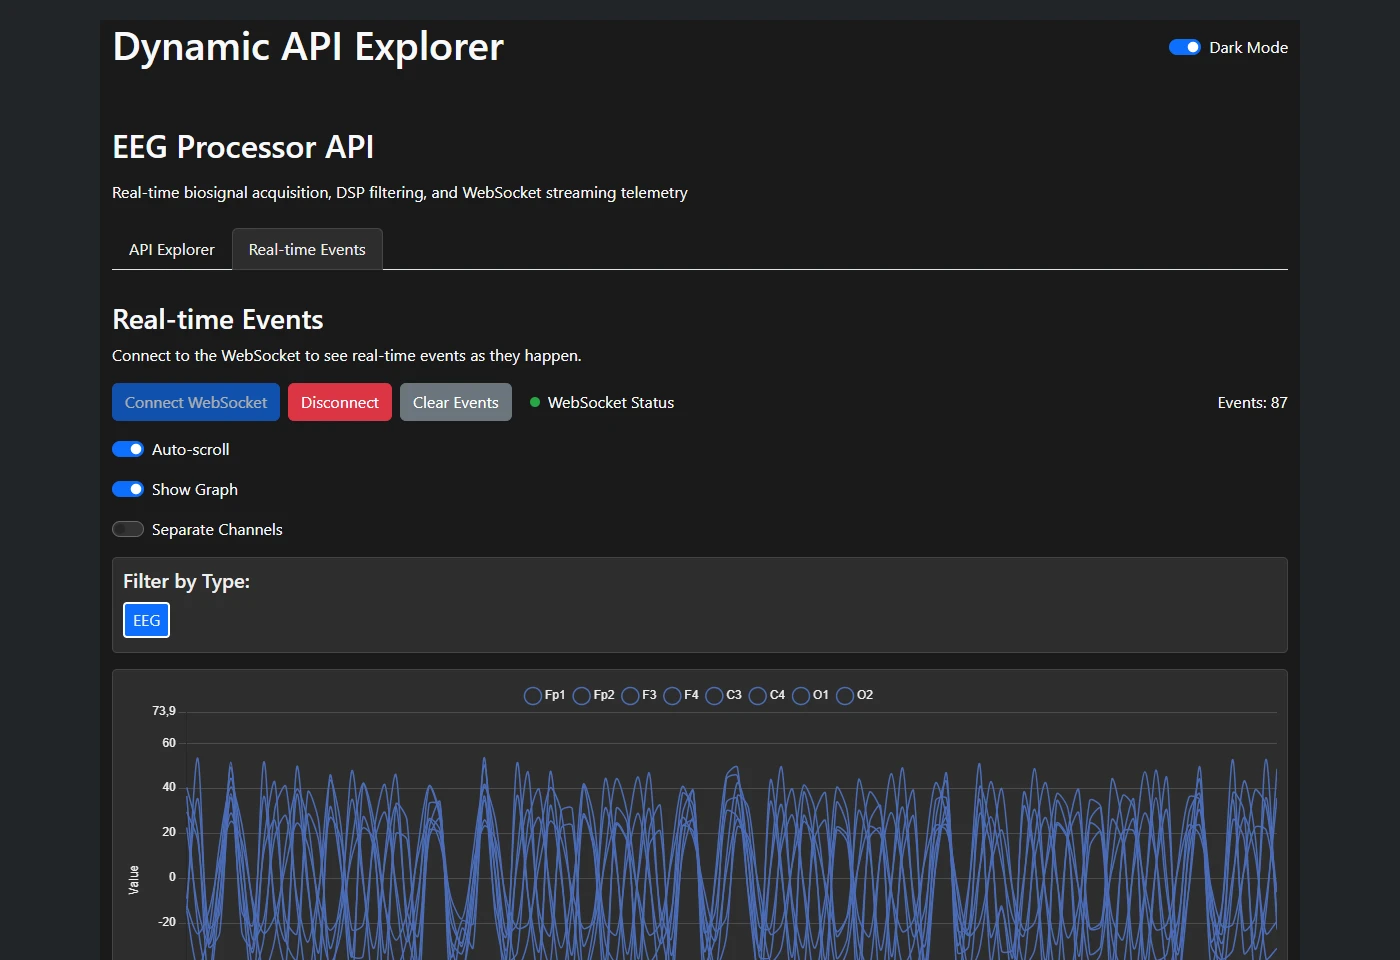
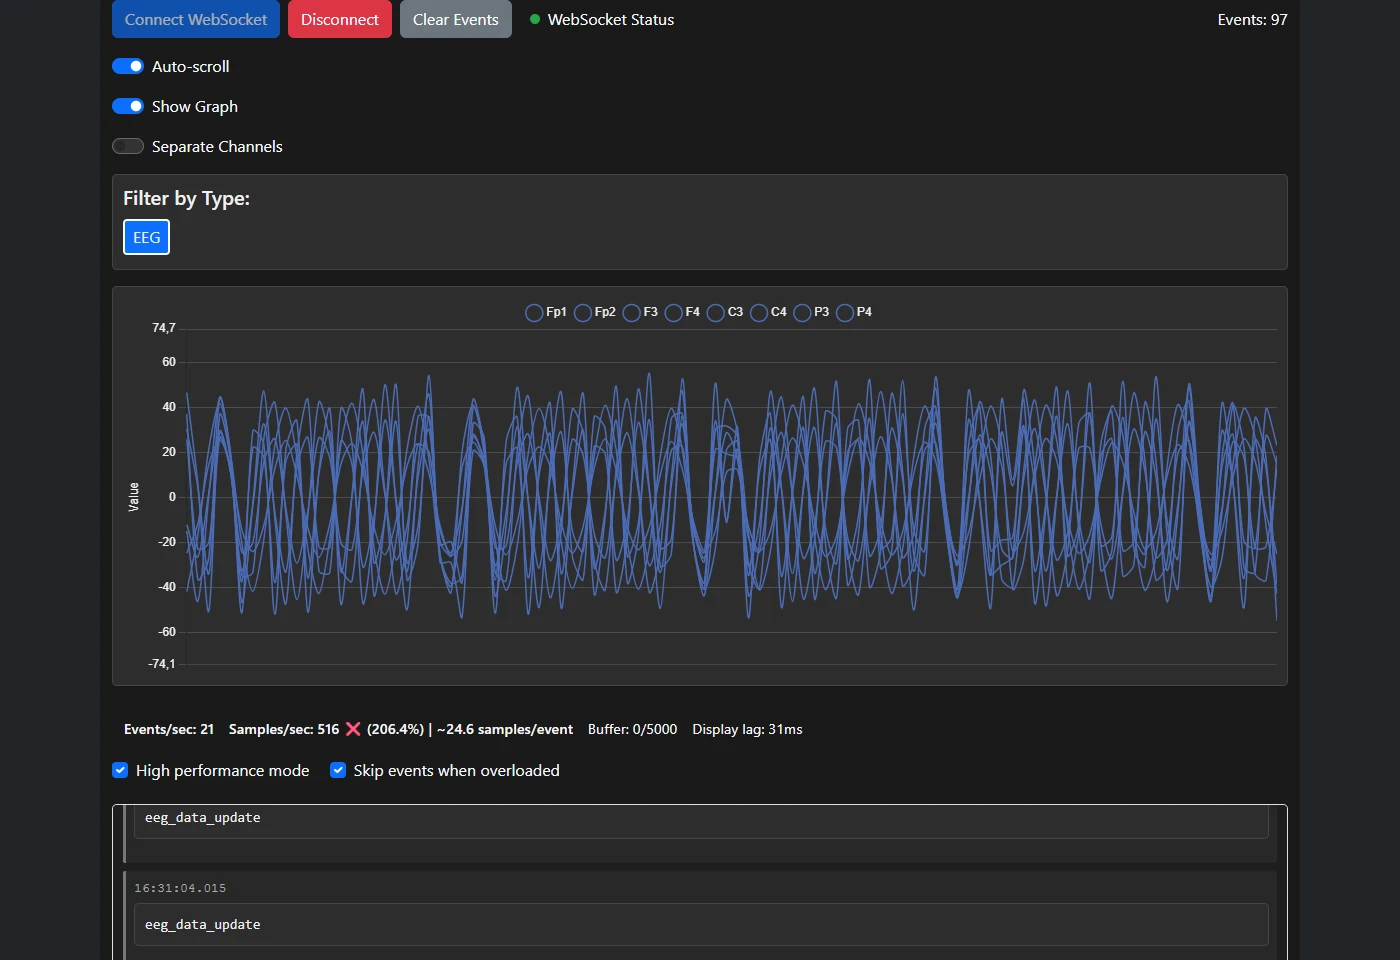
Add focused combined and separated web signal visualizer captures

diff --git a/README.md b/README.md
@@ -56,15 +56,13 @@ The framework bridges raw BrainFlow ring-buffers directly into `MNE-Python` scie
 | Interactive gamepad visualizer with analog stick tracking & button state overlays | Real-time keydown/keyup listener, mouse delta logging, and microsecond timestamps |
 
 ### 5. Remote Streaming & Terminal Environments
-| Web Real-Time Signal Visualizer (Chart.js) | Dynamic Web API Explorer (FastAPI) |
+| Web Signal Streaming (Combined Channels) | Web Signal Streaming (Separated Channels) |
 |:---:|:---:|
-| <img src="assets/screenshots/web_api_signal_visualizer.webp" width="460" alt="Web Real-Time Signal Streaming Visualizer"> | <img src="assets/screenshots/web_api_explorer.webp" width="460" alt="FastAPI Web Explorer"> |
-| In-browser multi-channel biosignal streaming over WebSockets with live Chart.js waveforms | Dark-mode interactive dashboard with dynamic REST endpoint testing and parameter inspection |
-
-| Interactive Terminal CLI (Rich & Typer) |
-|:---:|
-| <img src="assets/screenshots/cli_interactive_terminal.webp" width="700" alt="Interactive CLI Terminal"> |
-| Headless REPL shell and live status tables with Rich telemetry for server and headless deployments |
+| <img src="assets/screenshots/web_api_signal_visualizer.webp" width="460" alt="Web Real-Time Signal Streaming - Combined Multi-channel Chart"> | <img src="assets/screenshots/web_api_signals_separated.webp" width="460" alt="Web Real-Time Signal Streaming - Separated Channels Grid"> |
+| Real-time multi-signal overlay with dynamic scaling and WebSocket telemetry | Individual channel oscilloscope grid with independent scaling per electrode |
+| **Dynamic Web API Explorer (FastAPI)** | **Interactive Terminal CLI (Rich & Typer)** |
+| <img src="assets/screenshots/web_api_explorer.webp" width="460" alt="FastAPI Web Explorer"> | <img src="assets/screenshots/cli_interactive_terminal.webp" width="460" alt="Interactive CLI Terminal"> |
+| Dark-mode browser dashboard with dynamic REST endpoint testing and parameter inspection | Headless REPL shell and live status tables with Rich telemetry for server deployments |
 
 ---
 
